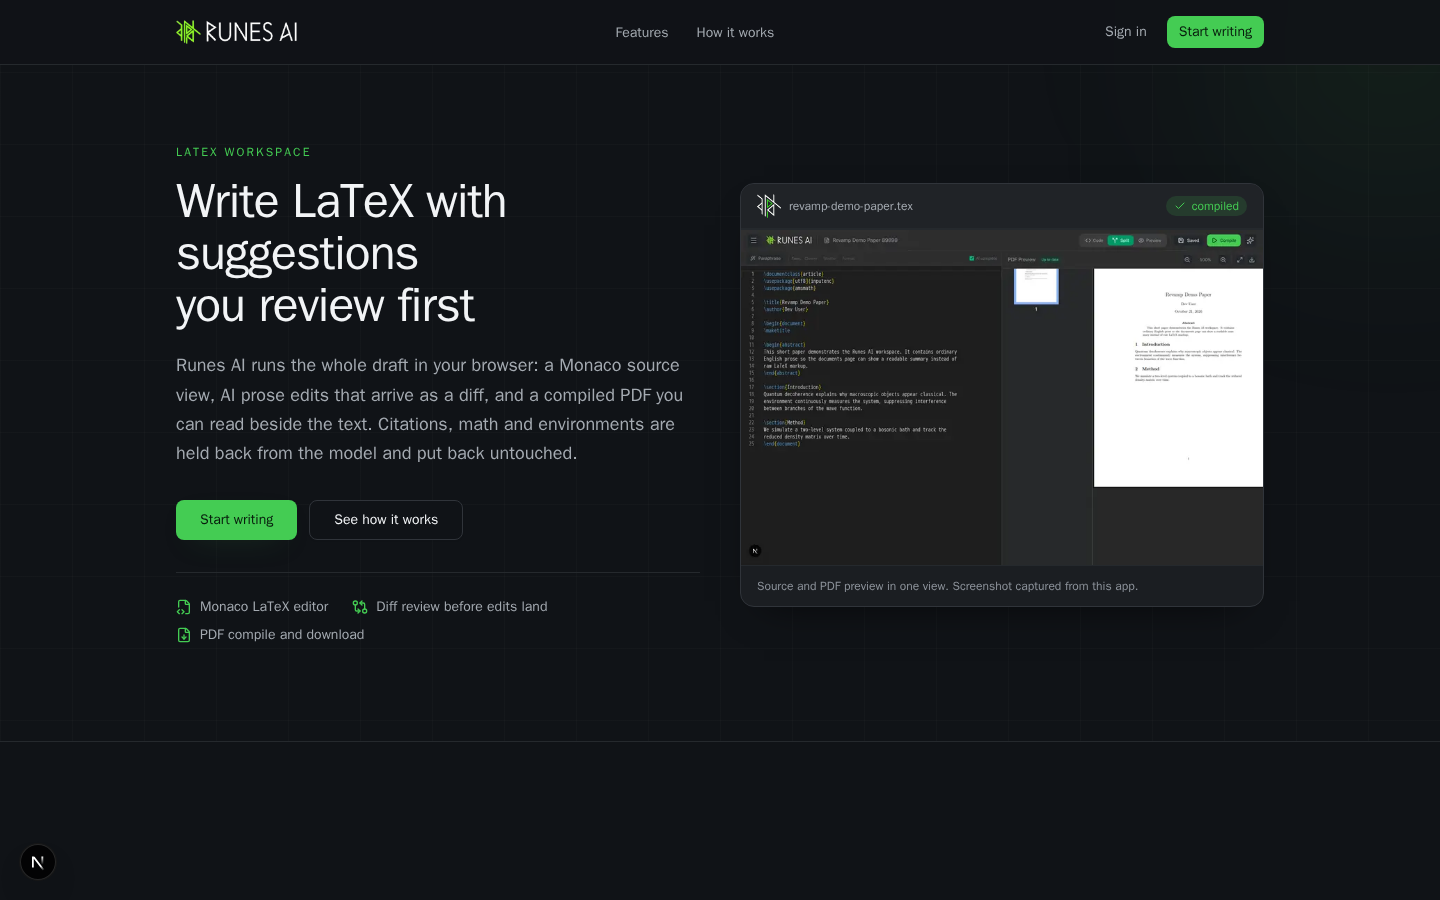
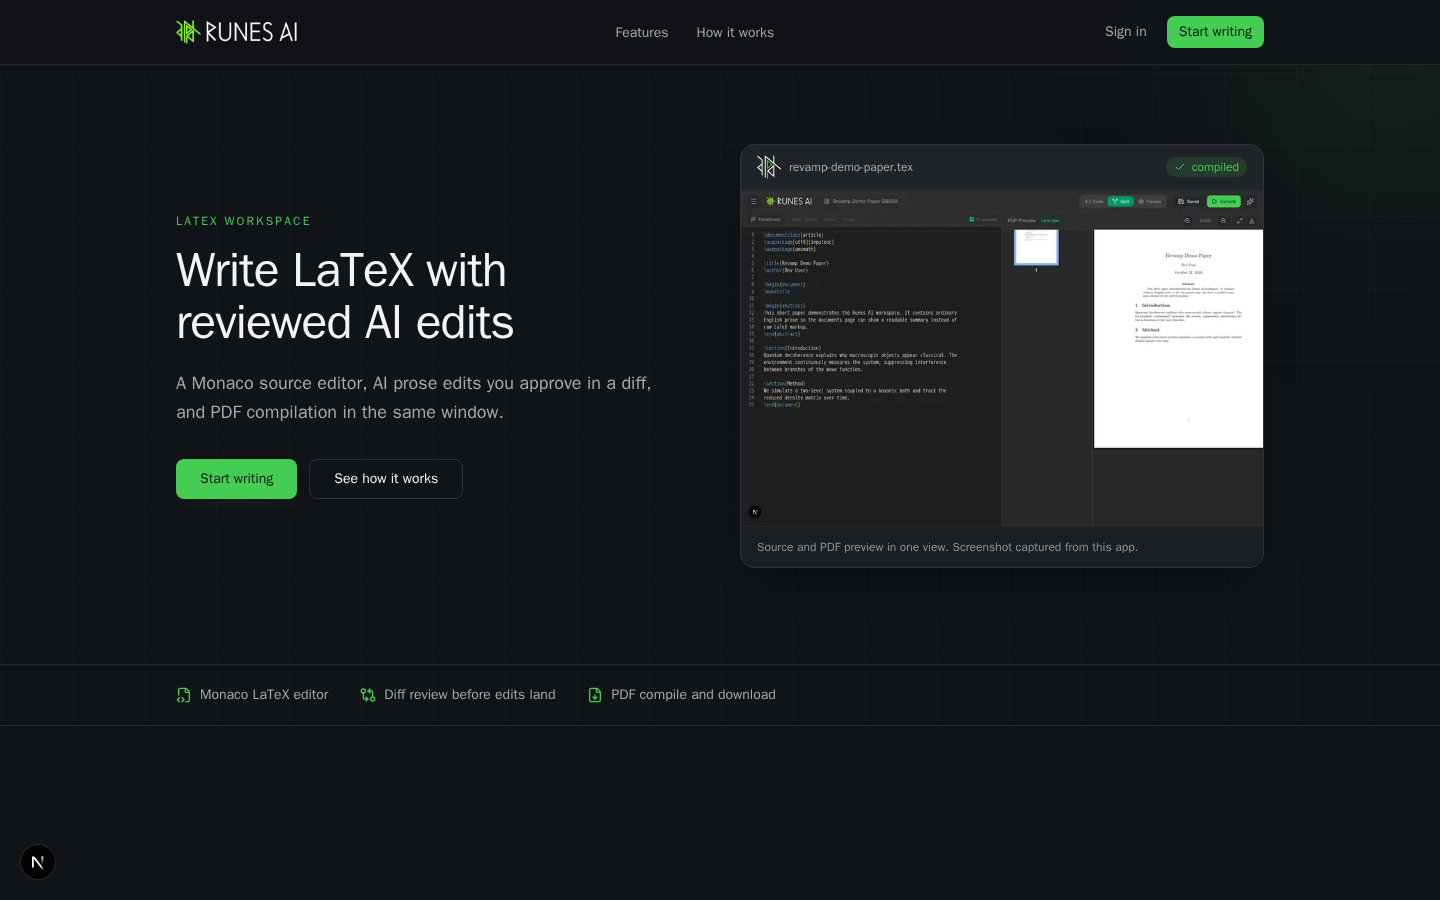
fix(landing): tighter hero, capability strip moved below
- heading "Write LaTeX with reviewed AI edits" renders two lines at 1440 (range-rect checked); supporting copy halved
- primary CTA bottom sits at 400px of 844 on mobile; the three-item capability list now lives in a band under the hero grid instead of the copy column

diff --git a/src/app/components/landing/hero.tsx b/src/app/components/landing/hero.tsx
@@ -33,17 +33,15 @@ export default function Hero() {
           </Reveal>
 
           <Reveal delay={0.04}>
-            <h1 className="mt-4 max-w-[16ch] text-4xl font-semibold leading-[1.08] text-foreground md:text-5xl">
-              Write LaTeX with suggestions you review first
+            <h1 className="mt-4 max-w-[15ch] text-4xl font-semibold leading-[1.08] text-foreground md:text-5xl">
+              Write LaTeX with reviewed AI edits
             </h1>
           </Reveal>
 
           <Reveal delay={0.08}>
-            <p className="mt-5 max-w-[60ch] text-base leading-relaxed text-muted-foreground md:text-lg">
-              Runes AI runs the whole draft in your browser: a Monaco source view,
-              AI prose edits that arrive as a diff, and a compiled PDF you can read
-              beside the text. Citations, math and environments are held back from
-              the model and put back untouched.
+            <p className="mt-5 max-w-[46ch] text-base leading-relaxed text-muted-foreground md:text-lg">
+              A Monaco source editor, AI prose edits you approve in a diff, and PDF
+              compilation in the same window.
             </p>
           </Reveal>
 
@@ -62,16 +60,6 @@ export default function Hero() {
             </div>
           </Reveal>
 
-          <Reveal delay={0.16}>
-            <ul className="mt-8 flex flex-wrap gap-x-6 gap-y-2 border-t border-border-subtle pt-6">
-              {FACTS.map((fact) => (
-                <li key={fact.label} className="flex items-center gap-2 text-sm text-muted-foreground">
-                  <fact.icon className="h-4 w-4 shrink-0 text-primary" aria-hidden="true" />
-                  {fact.label}
-                </li>
-              ))}
-            </ul>
-          </Reveal>
         </div>
 
         <Reveal delay={0.1} className="lg:col-span-6">
@@ -99,6 +87,19 @@ export default function Hero() {
               Source and PDF preview in one view. Screenshot captured from this app.
             </figcaption>
           </figure>
+        </Reveal>
+      </div>
+
+      <div className="relative border-t border-border-subtle">
+        <Reveal>
+          <ul aria-label="What the editor does" className="mx-auto flex w-full max-w-6xl flex-wrap items-center gap-x-8 gap-y-2 px-5 py-5 lg:px-8">
+            {FACTS.map((fact) => (
+              <li key={fact.label} className="flex items-center gap-2 text-sm text-muted-foreground">
+                <fact.icon className="h-4 w-4 shrink-0 text-primary" aria-hidden="true" />
+                {fact.label}
+              </li>
+            ))}
+          </ul>
         </Reveal>
       </div>
     </section>
